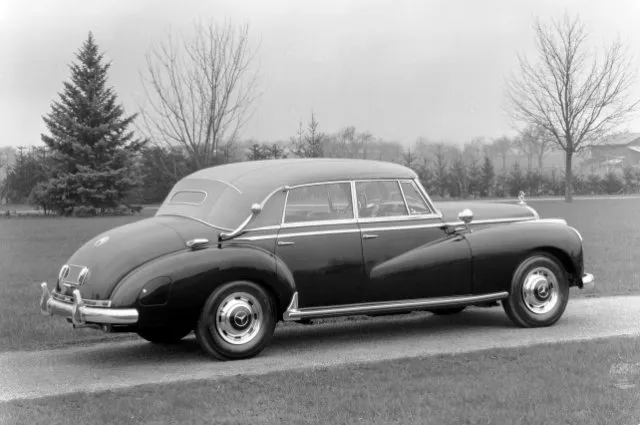
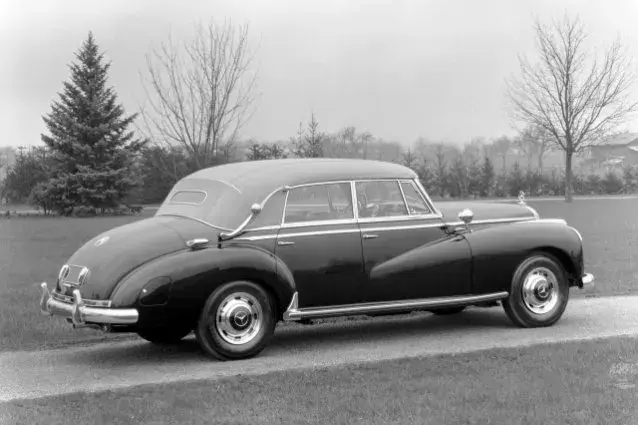
246

diff --git a/pic/ja_mb_img_l.html b/pic/ja_mb_img_l.html
@@ -353,7 +353,7 @@
 						<a href="full/l/w186_d.jpg"><img loading="lazy" src="style/l/w186_d.webp" alt="メルセデス,W186,内装" width="610" height="425"></a>
 						<h5>Landaulet</h5>
 						<a href="full/l/w186l_f.jpg"><img loading="lazy" src="style/l/w186l_f.webp" alt="メルセデス,W186,ランドーレット,フロント" width="567" height="425"></a>
-						<a href="full/l/w186l_r.jpg"><img loading="lazy" src="style/l/w186l_r.webp" alt="メルセデス,W186,ランドーレット,リヤ" width="640" height="425"></a>
+						<a href="full/l/w186l_r.jpg"><img loading="lazy" src="style/l/w186l_r.webp" alt="メルセデス,W186,ランドーレット,リヤ" width="638" height="425"></a>
 						<h5>ボディサイズ</h5>
 						<a href="full/l/w186l_a.gif"><img loading="lazy" src="style/l/w186l_a.gif" alt="メルセデス,W186,ランドーレット,寸法" width="967" height="543"></a>
 					</section>

diff --git a/pic/mb_img_l.html b/pic/mb_img_l.html
@@ -353,7 +353,7 @@
 						<a href="full/l/w186_d.jpg"><img loading="lazy" src="style/l/w186_d.webp" alt="Mercedes,W186,Innenansicht" width="610" height="425"></a>
 						<h5>Landaulet</h5>
 						<a href="full/l/w186l_f.jpg"><img loading="lazy" src="style/l/w186l_f.webp" alt="Mercedes,W186,landaulet,Frontansicht" width="567" height="425"></a>
-						<a href="full/l/w186l_r.jpg"><img loading="lazy" src="style/l/w186l_r.webp" alt="Mercedes,W186,landaulet,Rückansicht" width="640" height="425"></a>
+						<a href="full/l/w186l_r.jpg"><img loading="lazy" src="style/l/w186l_r.webp" alt="Mercedes,W186,landaulet,Rückansicht" width="638" height="425"></a>
 						<h5>Abmessungen</h5>
 						<a href="full/l/w186l_a.gif"><img loading="lazy" src="style/l/w186l_a.gif" alt="Mercedes,W186,landaulet,Maße" width="967" height="543"></a>
 					</section>

diff --git a/pic/en_mb_img_l.html b/pic/en_mb_img_l.html
@@ -353,7 +353,7 @@
 						<a href="full/l/w186_d.jpg"><img loading="lazy" src="style/l/w186_d.webp" alt="Mercedes,W186,Interior" width="610" height="425"></a>
 						<h5>Landaulet</h5>
 						<a href="full/l/w186l_f.jpg"><img loading="lazy" src="style/l/w186l_f.webp" alt="Mercedes,W186,landaulet,Front view" width="567" height="425"></a>
-						<a href="full/l/w186l_r.jpg"><img loading="lazy" src="style/l/w186l_r.webp" alt="Mercedes,W186,landaulet,Rear view" width="640" height="425"></a>
+						<a href="full/l/w186l_r.jpg"><img loading="lazy" src="style/l/w186l_r.webp" alt="Mercedes,W186,landaulet,Rear view" width="638" height="425"></a>
 						<h5>Dimensions</h5>
 						<a href="full/l/w186l_a.gif"><img loading="lazy" src="style/l/w186l_a.gif" alt="Mercedes,W186,landaulet,Dimensions" width="967" height="543"></a>
 					</section>
